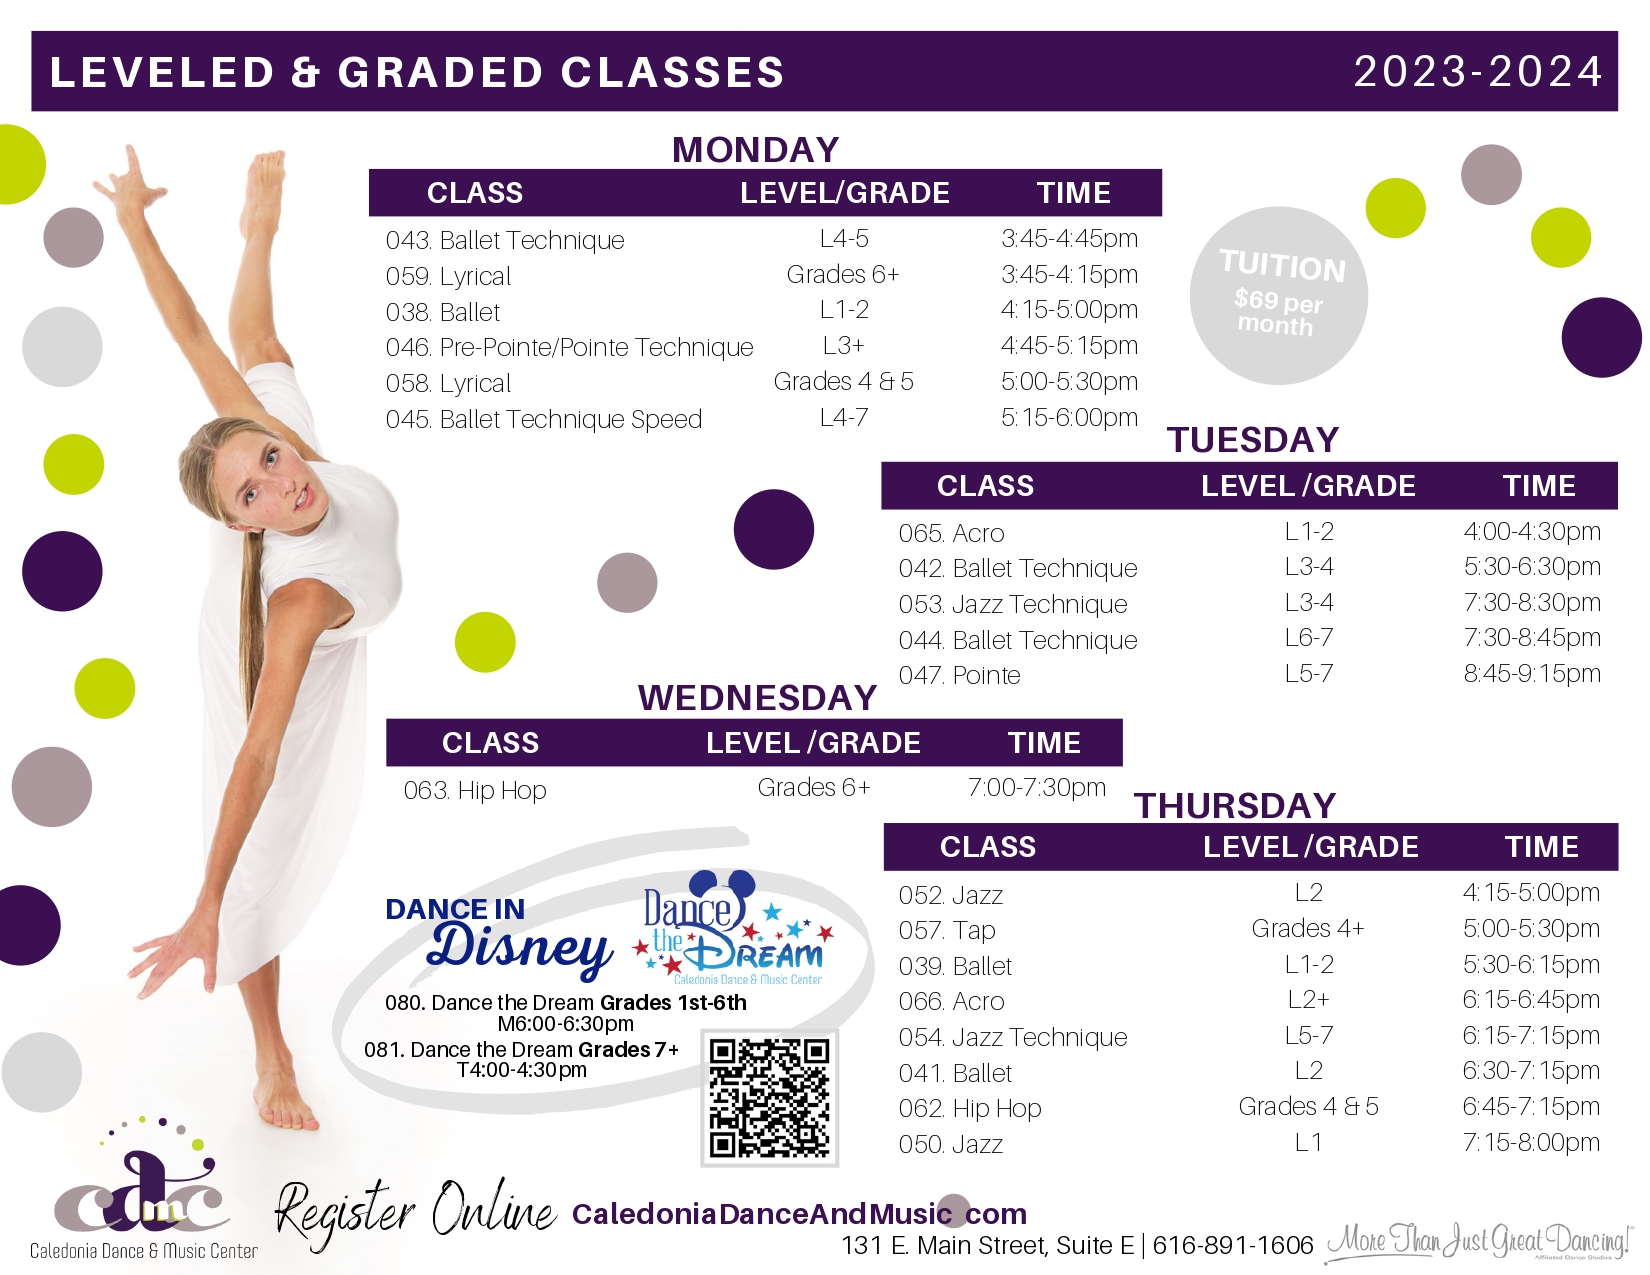
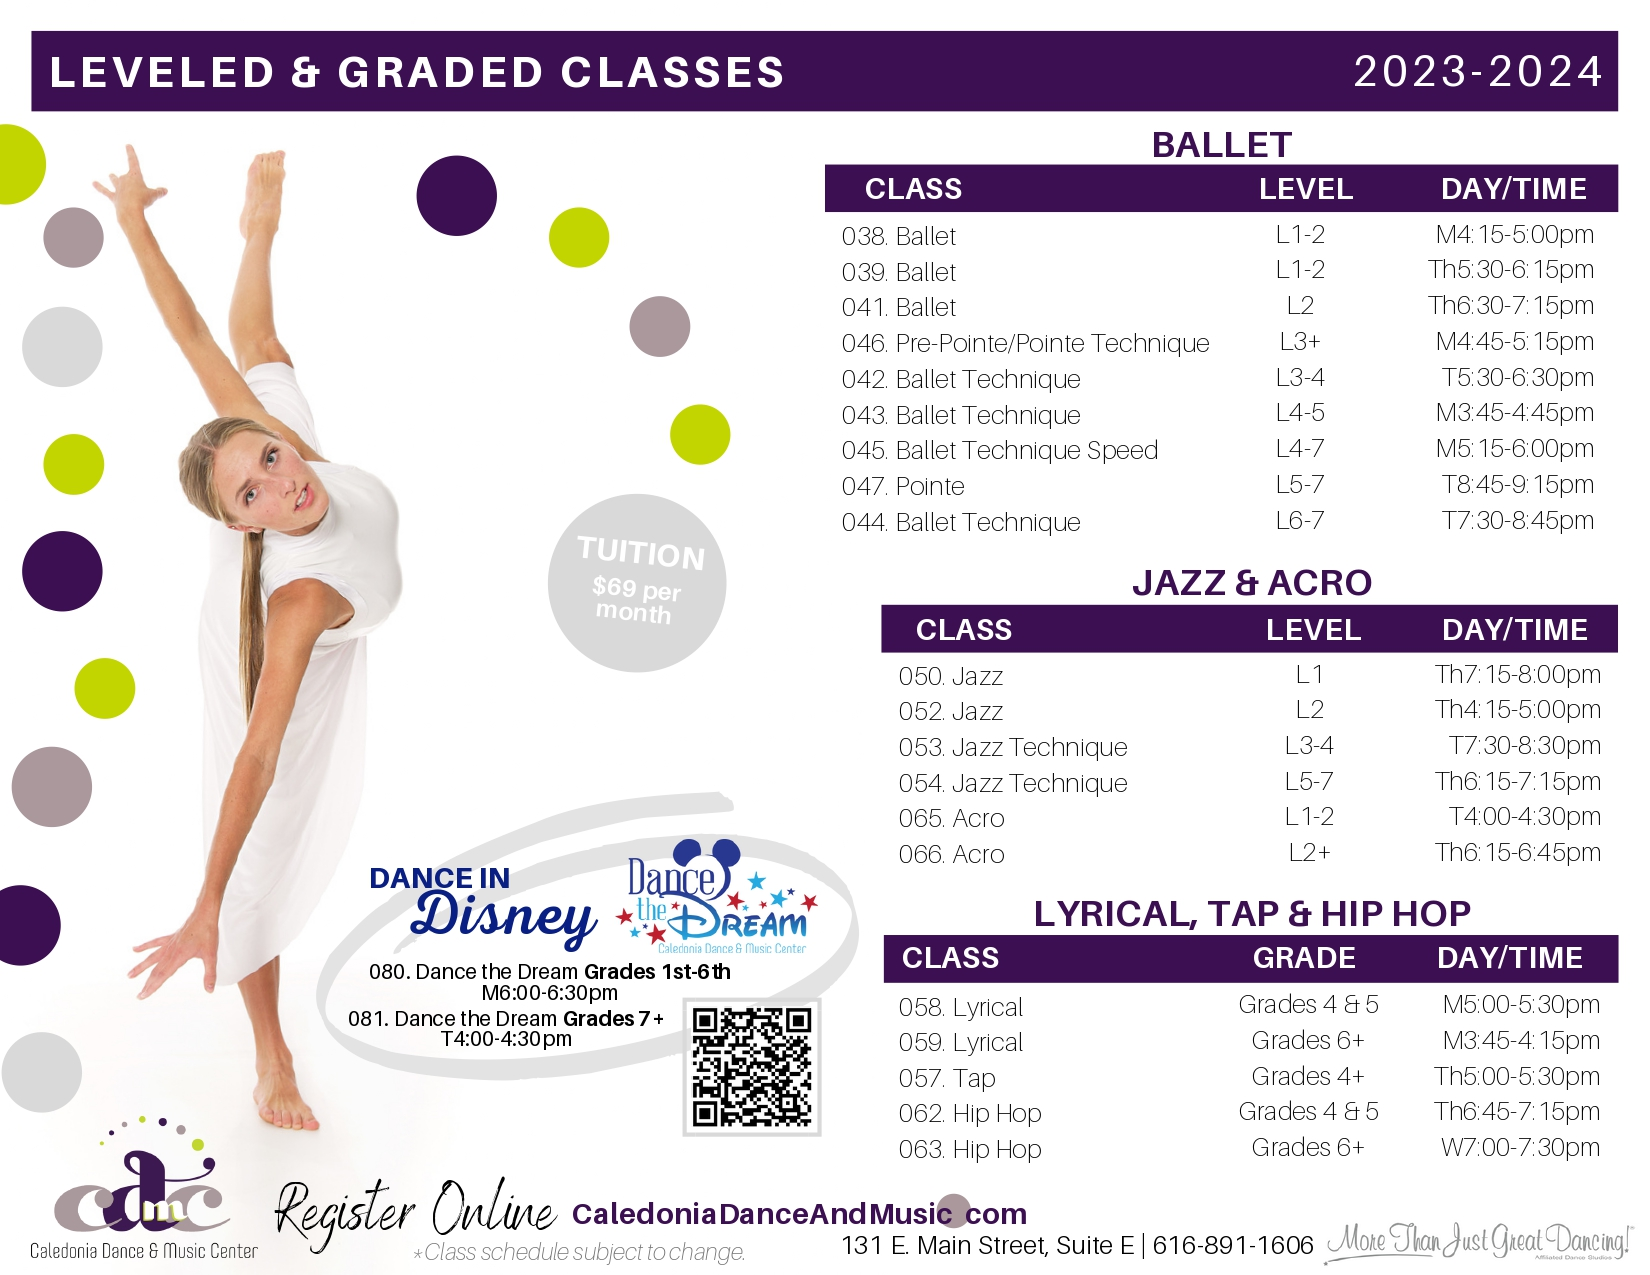
fall graphic update and nav update

Changed region(s): [[0.1855, 0.0918, 1.0, 0.9176], [0.2473, 0.9788, 0.4636, 1.0], [0.3709, 0.2141, 0.4327, 0.2753]]

diff --git a/resources/views/fall-lava.blade.php b/resources/views/fall-lava.blade.php
@@ -19,32 +19,32 @@
             <div class="container">
                 <div class="row row-cols-1 row-cols-sm-1 row-cols-md-2 row-cols-lg-2">
                     <div class="col my-2">
-                        <a target="_blank">
-                            <a href="/images/fall-23.pdf" target="_blank">
+{{--                        <a target="_blank">--}}
+{{--                            <a href="/images/fall-23.pdf" target="_blank">--}}
                                 <img src="/images/fall-23-1.jpg" alt="fall schedule" class="img-fluid shadow rounded" style="width: 100%; height: auto;">
-                            </a>
-                        </a>
+{{--                            </a>--}}
+{{--                        </a>--}}
                     </div>
                     <div class="col my-2">
-                        <a target="_blank">
-                            <a href="/images/fall-23.pdf" target="_blank">
+{{--                        <a target="_blank">--}}
+{{--                            <a href="/images/fall-23.pdf" target="_blank">--}}
                                 <img src="/images/fall-23-2.jpg" alt="fall schedule" class="img-fluid shadow rounded" style="width: 100%; height: auto;">
-                            </a>
-                        </a>
+{{--                            </a>--}}
+{{--                        </a>--}}
                     </div>
                     <div class="col my-2">
-                        <a target="_blank">
-                            <a href="/images/fall-23.pdf" target="_blank">
+{{--                        <a target="_blank">--}}
+{{--                            <a href="/images/fall-23.pdf" target="_blank">--}}
                                 <img src="/images/fall-23-3.jpg" alt="fall schedule" class="img-fluid shadow rounded" style="width: 100%; height: auto;">
-                            </a>
-                        </a>
+{{--                            </a>--}}
+{{--                        </a>--}}
                     </div>
                     <div class="col my-2">
-                        <a target="_blank">
-                            <a href="/images/fall-23.pdf" target="_blank">
+{{--                        <a target="_blank">--}}
+{{--                            <a href="/images/fall-23.pdf" target="_blank">--}}
                                 <img src="/images/fall-23-4.jpg" alt="fall schedule" class="img-fluid shadow rounded" style="width: 100%; height: auto;">
-                            </a>
-                        </a>
+{{--                            </a>--}}
+{{--                        </a>--}}
                     </div>
 {{--                    <div class="col my-2">--}}
 {{--                        <a href="/images/fall-2022-2023.pdf" target="_blank">--}}

diff --git a/resources/views/nav-lava.blade.php b/resources/views/nav-lava.blade.php
@@ -23,15 +23,15 @@
                     <a class="nav-link" href="/staff">Staff</a>
                 </li>
                 <li class="nav-item mx-2">
-                    <a class="nav-link" href="/fall">2023</a>
+                    <a class="nav-link" href="/fall">2023-2024</a>
                 </li>
                 <li class="nav-item mx-2">
                     <a class="nav-link" href="/summer">Summer</a>
 {{--                    <a class="nav-link" href="/mini-camps">Mini-Camps</a>--}}
                 </li>
-                <li class="nav-item mx-2">
-                    <a class="nav-link" href="/recital">Recital</a>
-                </li>
+{{--                <li class="nav-item mx-2">--}}
+{{--                    <a class="nav-link" href="/recital">Recital</a>--}}
+{{--                </li>--}}
                 <li class="nav-item mx-2">
                     <a class="nav-link" href="/nutcracker">Nutcracker
                         {{--            <br><span class="text-muted" style="font-size: 0.65em;">TICKETS AVAILABLE</span>--}}

diff --git a/routes/web.php b/routes/web.php
@@ -67,12 +67,12 @@ Route::get('staff', function () {
     return view('staff-lava');
 });
 
-Route::get('recital', function () {
-    return view('recital');
-});
-Route::post('recital', function () {
-    return view('recital');
-});
+//Route::get('recital', function () {
+//    return view('recital');
+//});
+//Route::post('recital', function () {
+//    return view('recital');
+//});
 
 Route::get('/fall', function () {
     return view('/fall-lava');
